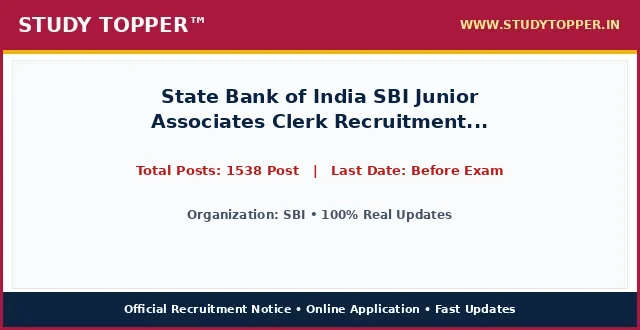
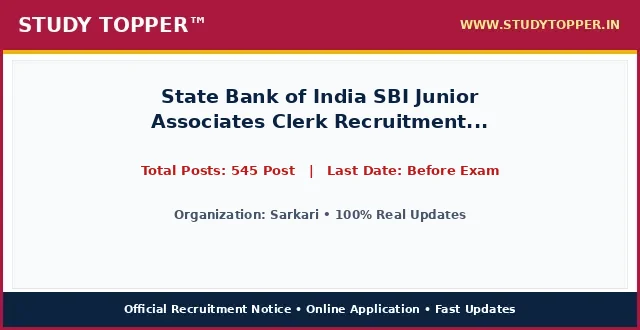
chore(lifecycle): daily auto-sort vacancies and update active dates

Changed region(s): [[0.2188, 0.4848, 0.7812, 0.5455], [0.25, 0.6364, 0.75, 0.6667]]

diff --git a/pages/sbi-clerk-backlog-2026.html b/pages/sbi-clerk-backlog-2026.html
@@ -987,12 +987,12 @@ ul.wp-block-latest-posts a:hover {
 <main class="site-main" id="main">
 <div class="gb-container gb-container-b39c368c">
 <h1 class="gb-headline gb-headline-e52a0102 gb-headline-text" style="font-size: 22px; font-weight: 700; color: #0000cd; text-align: left; margin: 8px 0 4px 0; line-height: 1.3; width: 100%; font-family: '-apple-system, BlinkMacSystemFont, 'Segoe UI', Roboto, 'Helvetica Neue', Arial, sans-serif', Times, serif, Hind, sans-serif;">State Bank of India SBI Junior Associates Clerk Recruitment 2026 : Apply Online for 1538 Backlog Post</h1>
-<div class="gb-container gb-container-659bd175"><p style="color: #cd0808; font-weight: 700; font-size: 15px; margin: 2px 0 7px 0; text-align: left; font-family: '-apple-system, BlinkMacSystemFont, 'Segoe UI', Roboto, 'Helvetica Neue', Arial, sans-serif', Times, serif, Hind, sans-serif;">Post Date: August 22, 2026 09:54 AM</p></div>
-<p class="gb-headline gb-headline-550ae316 short_Details gb-headline-text" style="width: 100%; max-width: 100%; font-size: 16.8px; line-height: 1.55; color: #000000; text-align: justify; text-justify: inter-word; margin: 8px 0 14px 0; display: block; font-family: '-apple-system, BlinkMacSystemFont, 'Segoe UI', Roboto, 'Helvetica Neue', Arial, sans-serif', Times, serif, Hind, sans-serif;"><strong style="color: #0000cd;">SBI</strong> has officially published the recruitment notice <strong style="color: #cd0808;">State Bank of India SBI Junior Associates Clerk Recruitment 2026 : Apply Online for 1538 Backlog Post</strong> under notification number 2026. Online applications are invited for 1538 Post across multiple departments and cadre positions. Interested candidates possessing the requisite educational qualifications and falling between 18 Years to 40 Years can complete their online registration before the application deadline of Before Exam. Applicants should read the eligibility criteria, category reservation rules, and exam scheme thoroughly before submitting applications.</p>
+<div class="gb-container gb-container-659bd175"><p style="color: #cd0808; font-weight: 700; font-size: 15px; margin: 2px 0 7px 0; text-align: left; font-family: '-apple-system, BlinkMacSystemFont, 'Segoe UI', Roboto, 'Helvetica Neue', Arial, sans-serif', Times, serif, Hind, sans-serif;">Post Date: August 22, 2026 11:56 AM</p></div>
+<p class="gb-headline gb-headline-550ae316 short_Details gb-headline-text" style="width: 100%; max-width: 100%; font-size: 16.8px; line-height: 1.55; color: #000000; text-align: justify; text-justify: inter-word; margin: 8px 0 14px 0; display: block; font-family: '-apple-system, BlinkMacSystemFont, 'Segoe UI', Roboto, 'Helvetica Neue', Arial, sans-serif', Times, serif, Hind, sans-serif;"><strong style="color: #0000cd;">Sarkari</strong> has officially published the recruitment notice <strong style="color: #cd0808;">State Bank of India SBI Junior Associates Clerk Recruitment 2026 : Apply Online for 1538 Backlog Post</strong> under notification number Official Advt 2026. Online applications are invited for 545 Post across multiple departments and cadre positions. Interested candidates possessing the requisite educational qualifications and falling between 18 Years to 40 Years can complete their online registration before the application deadline of Before Exam. Applicants should read the eligibility criteria, category reservation rules, and exam scheme thoroughly before submitting applications.</p>
 <div class="gb-container gb-container-9849916c"><div class="social-buttons-compact" style="display: flex; justify-content: flex-start; align-items: center; gap: 10px; margin: 10px 0 16px 0; width: 100%;"><a class="social-btn-compact wa" href="https://whatsapp.com/channel/0029Va9xyz" rel="noopener" style="background-color: #00d084; color: #ffffff; padding: 10px 18px; border-radius: 4px; text-decoration: none; font-weight: bold; font-size: 15.5px; display: inline-flex; align-items: center; justify-content: center; height: auto;" target="_blank">WhatsApp</a><a class="social-btn-compact tg" href="https://t.me/studytopperofficial" rel="noopener" style="background-color: #0088cc; color: #ffffff; padding: 10px 18px; border-radius: 4px; text-decoration: none; font-weight: bold; font-size: 15.5px; display: inline-flex; align-items: center; justify-content: center; height: auto;" target="_blank">Telegram</a></div></div>
 <div class="gb-container gb-container-f58e6ca1" style="border: 2px solid #5b032f; border-radius: 4px; overflow: hidden; margin: 15px 0 20px 0; background-color: #ffffff; width: 100%; box-sizing: border-box;">
 <h2 class="gb-headline gb-headline-2ca5a791 gb-headline-text" style="font-size: 16px; font-weight: 700; text-align: center; color: #ef0303; line-height: 1.3; padding: 6px 4px; margin: 0; background: #ffffff; font-family: '-apple-system, BlinkMacSystemFont, 'Segoe UI', Roboto, 'Helvetica Neue', Arial, sans-serif', Times, serif, Hind, sans-serif;">State Bank of India SBI Junior Associates Clerk Recruitment 2026 : Apply Online for 1538 Backlog Post &ndash; Latest Details &amp; Updates</h2>
-<h3 class="gb-headline gb-headline-7d5f86e8 gb-headline-text" style="font-size: 16px; font-weight: 600; text-align: center; color: #009703; line-height: 1.25; margin: 0; padding: 2px 4px 6px 4px; background: #ffffff; font-family: '-apple-system, BlinkMacSystemFont, 'Segoe UI', Roboto, 'Helvetica Neue', Arial, sans-serif', Times, serif, Hind, sans-serif;">SBI : Details &amp; Summary</h3>
+<h3 class="gb-headline gb-headline-7d5f86e8 gb-headline-text" style="font-size: 16px; font-weight: 600; text-align: center; color: #009703; line-height: 1.25; margin: 0; padding: 2px 4px 6px 4px; background: #ffffff; font-family: '-apple-system, BlinkMacSystemFont, 'Segoe UI', Roboto, 'Helvetica Neue', Arial, sans-serif', Times, serif, Hind, sans-serif;">Sarkari : Details &amp; Summary</h3>
 <p class="gb-headline gb-headline-79adf169 gb-headline-text" style="margin: 0 0 6px 0; font-family: '-apple-system, BlinkMacSystemFont, 'Segoe UI', Roboto, 'Helvetica Neue', Arial, sans-serif', Times, serif, Hind, sans-serif; text-align: center; font-size: 18px; font-weight: 700;"><a href="/" style="color: #0000ff; text-decoration: underline;">StudyTopper.in</a></p>
 
 <style id="st-post-boxes-responsive-css">
@@ -1025,7 +1025,7 @@ ul.wp-block-latest-posts a:hover {
     <div style="background-color: #5b032f; color: #ffffff; padding: 8px 10px; font-size: 20px; font-weight: 700; text-align: center; font-family: '-apple-system, BlinkMacSystemFont, 'Segoe UI', Roboto, 'Helvetica Neue', Arial, sans-serif', Times, serif, Hind, sans-serif;">Important Dates</div>
     <div style="padding: 12px 14px; background-color: #ffffff;">
       <ul style="padding-left: 20px; margin: 0; list-style-type: disc; text-align: left; font-size: 14pt; line-height: 1.6; font-family: '-apple-system, BlinkMacSystemFont, 'Segoe UI', Roboto, 'Helvetica Neue', Arial, sans-serif', Times, serif, Hind, sans-serif;">
-        <li><span style="font-size: 14pt;">Application Begin : <strong>07/08/2026</strong></span></li><li><span style="font-size: 14pt;">Last Date for Apply Online : <span style="color: #ff0000;"><strong>27/08/2026</strong></span></span></li><li><span style="font-size: 14pt;">Pay Exam Fee Last Date : <span style="color: #ff0000;"><strong>27/08/2026</strong></span></span></li><li><span style="font-size: 14pt;">SBI Clerk Phase I Pre Exam Date : <strong>September 2026</strong></span></li><li><span style="font-size: 14pt;">Admit Card Available : <strong>Before Exam</strong></span></li><li><span style="font-size: 14pt;">SBI Clerk Phase II Main Exam Date : <strong>October / November 2026</strong></span></li><li><span style="font-size: 14pt;">Admit Card : <strong>Before Exam</strong></span></li>
+        
       </ul>
     </div>
   </div>
@@ -1034,7 +1034,7 @@ ul.wp-block-latest-posts a:hover {
     <div style="background-color: #5b032f; color: #ffffff; padding: 8px 10px; font-size: 20px; font-weight: 700; text-align: center; font-family: '-apple-system, BlinkMacSystemFont, 'Segoe UI', Roboto, 'Helvetica Neue', Arial, sans-serif', Times, serif, Hind, sans-serif;">Application Fee</div>
     <div style="padding: 12px 14px; background-color: #ffffff;">
       <ul style="padding-left: 20px; margin: 0; list-style-type: disc; text-align: left; font-size: 14pt; line-height: 1.6; font-family: '-apple-system, BlinkMacSystemFont, 'Segoe UI', Roboto, 'Helvetica Neue', Arial, sans-serif', Times, serif, Hind, sans-serif;">
-        <li><span style="font-size: 14pt;">OBC : <strong>750/-</strong></span></li><li><span style="font-size: 14pt;">SC / ST / PH : <strong>0/-</strong></span></li><li><span style="font-size: 14pt;">The Stage : <strong>I Pre Examination will be conducted in September 2026.</strong></span></li>
+        <li><span style="font-size: 14pt;">Bihar Police BPSSC Sub Inspector SI Prohibition Result 2026 Advt. No. : <strong>03/2026</strong></span></li><li><span style="font-size: 14pt;">UP Scholarship Online Form 2026 : <strong>2027</strong></span></li>
       </ul>
       <div style="margin-top: 10px; font-size: 14pt; line-height: 1.5; color: #000000; border-top: 1px dashed #ccc; padding-top: 8px; font-family: '-apple-system, BlinkMacSystemFont, 'Segoe UI', Roboto, 'Helvetica Neue', Arial, sans-serif', Times, serif, Hind, sans-serif;">
         <strong>Mode of Payment / Access:</strong> Online via Net Banking, Debit Card, Credit Card, UPI or Free Candidate Portal.
@@ -1047,10 +1047,10 @@ ul.wp-block-latest-posts a:hover {
 <div class="st-grid-row" style="display: flex; flex-wrap: wrap; width: 100%; border-top: 2px solid #5b032f; margin: 0; padding: 0; box-sizing: border-box;">
   <!-- Left Col: Age Limits -->
   <div class="st-col-half st-col-border-right" style="box-sizing: border-box; vertical-align: top;">
-    <div style="background-color: #046132; color: #ffffff; padding: 8px 10px; font-size: 17px; font-weight: 700; text-align: center; font-family: '-apple-system, BlinkMacSystemFont, 'Segoe UI', Roboto, 'Helvetica Neue', Arial, sans-serif', Times, serif, Hind, sans-serif;">SBI : Age Limits As On 01 August 2026</div>
+    <div style="background-color: #046132; color: #ffffff; padding: 8px 10px; font-size: 17px; font-weight: 700; text-align: center; font-family: '-apple-system, BlinkMacSystemFont, 'Segoe UI', Roboto, 'Helvetica Neue', Arial, sans-serif', Times, serif, Hind, sans-serif;">Sarkari : Age Limits As On 01 August 2026</div>
     <div style="padding: 12px 14px; background-color: #ffffff;">
       <ul style="padding-left: 20px; margin: 0; list-style-type: disc; text-align: left; font-size: 14pt; line-height: 1.6; font-family: '-apple-system, BlinkMacSystemFont, 'Segoe UI', Roboto, 'Helvetica Neue', Arial, sans-serif', Times, serif, Hind, sans-serif;">
-        <li><span style="font-size: 14pt;">Minimum Age : <strong>20 Years.</strong></span></li><li><span style="font-size: 14pt;">Maximum Age : <strong>28 Years.</strong></span></li>
+        
       </ul>
     </div>
   </div>
@@ -1058,7 +1058,7 @@ ul.wp-block-latest-posts a:hover {
   <div class="st-col-half" style="box-sizing: border-box; vertical-align: top;">
     <div style="background-color: #f53c00; color: #ffffff; padding: 8px 10px; font-size: 20px; font-weight: 700; text-align: center; font-family: '-apple-system, BlinkMacSystemFont, 'Segoe UI', Roboto, 'Helvetica Neue', Arial, sans-serif', Times, serif, Hind, sans-serif;">Total Post</div>
     <div style="padding: 24px 10px; background-color: #ffffff; text-align: center;">
-      <span style="font-size: 28px; font-weight: 800; color: #000000; font-family: '-apple-system, BlinkMacSystemFont, 'Segoe UI', Roboto, 'Helvetica Neue', Arial, sans-serif', Times, serif, Hind, sans-serif;">1538 Post</span>
+      <span style="font-size: 28px; font-weight: 800; color: #000000; font-family: '-apple-system, BlinkMacSystemFont, 'Segoe UI', Roboto, 'Helvetica Neue', Arial, sans-serif', Times, serif, Hind, sans-serif;">545 Post</span>
     </div>
   </div>
 </div>
@@ -1070,19 +1070,7 @@ ul.wp-block-latest-posts a:hover {
 <div class="gb-container gb-container-ec1f6e4c">
 <h2 class="gb-headline gb-headline-c7683bda gb-headline-text" style="font-size: 24px; font-weight: 800; text-align: center; color: #ef0303; line-height: 1.35; margin: 20px 0 12px 0; padding: 6px 4px; font-family: '-apple-system, BlinkMacSystemFont, 'Segoe UI', Roboto, 'Helvetica Neue', Arial, sans-serif', Times, serif, Hind, sans-serif;">State Bank of India SBI Junior Associates Clerk Recruitment 2026 : Apply Online for 1538 Backlog Post : Key Overview &amp; Matrix</h2>
 <div class="gb-headline gb-headline-60ccea19 gb-headline-text">
-<table style="border-collapse: collapse; width: 100%; height: 150px;">
-<tbody>
-<tr style="height: 25px;">
-<td colspan="2" style="width: 50%; text-align: center; height: 25px;"><span style="background-color: #000080; color: #ffffff; font-size: 14pt;"><strong> SBI : Category Wise Vacancy Details </strong></span></td>
-</tr>
-<tr style="height: 25px;">
-<td style="width: 50%; height: 25px; text-align: center;"><span style="font-size: 14pt;"><strong>Category / Particulars</strong></span></td>
-<td style="width: 50%; height: 25px; text-align: center;"><span style="font-size: 14pt;"><strong>Count / Status</strong></span></td>
-</tr>
 
-</tbody>
-</table>
-<p>&nbsp;</p>
 <table style="border-collapse: collapse; width: 100%;">
 <tbody>
 <tr>
@@ -1090,9 +1078,14 @@ ul.wp-block-latest-posts a:hover {
 <th style="background-color: #f53c00; color: #ffffff; padding: 6px 10px; text-align: center; border: 1px solid #d35400; font-size: 15px; font-weight: 700; font-family: '-apple-system, BlinkMacSystemFont, 'Segoe UI', Roboto, 'Helvetica Neue', Arial, sans-serif', Times, serif, Hind, sans-serif;">Total Posts</th>
 <th style="background-color: #f53c00; color: #ffffff; padding: 6px 10px; text-align: center; border: 1px solid #d35400; font-size: 15px; font-weight: 700; font-family: '-apple-system, BlinkMacSystemFont, 'Segoe UI', Roboto, 'Helvetica Neue', Arial, sans-serif', Times, serif, Hind, sans-serif;">Eligibility Criteria</th>
 </tr>
-
+<tr>
+<td style="padding: 8px; border: 1px solid #ddd; font-weight: bold;">Sarkari Recruitment</td>
+<td style="padding: 8px; border: 1px solid #ddd; text-align: center; font-weight: bold;">545 Post</td>
+<td style="padding: 8px; border: 1px solid #ddd;">Please refer to the official notification linked below for detailed educational qualifications.</td>
+</tr>
 </tbody>
 </table>
+<p>&nbsp;</p>
 <p>&nbsp;</p>
 
 
@@ -1100,10 +1093,10 @@ ul.wp-block-latest-posts a:hover {
 <table style="border-collapse: collapse; width: 100%;">
 <tbody>
 <tr>
-<td style="width: 100%; text-align: center;"><span style="background-color: #000080; color: #ffffff; font-size: 14pt; font-weight: bold; display: block; padding: 6px;"> How to Fill SBI Online Application Form </span></td>
+<td style="width: 100%; text-align: center;"><span style="background-color: #000080; color: #ffffff; font-size: 14pt; font-weight: bold; display: block; padding: 6px;"> How to Fill Sarkari Online Application Form </span></td>
 </tr>
 <tr>
-<td style="width: 100%;"><ol style="margin:0; padding-left:18px; text-align: left !important; list-style-position: outside !important"><li style="margin-bottom:6px; text-align: left !important;">Resize candidate photograph and signature accurately using the <a href="https://indtool.in" rel="noopener" target="_blank"><strong>StudyTopper Tools</strong></a> image resizer at indtool.in.</li></ol></td>
+<td style="width: 100%;"><ol style="margin:0; padding-left:18px; text-align: left !important; list-style-position: outside !important"><li style="margin-bottom:6px; text-align: left !important;">Read the official recruitment notification carefully before applying.</li><li style="margin-bottom:6px; text-align: left !important;">Keep all basic documents ready: ID Proof, Address Details, Basic Details.</li><li style="margin-bottom:6px; text-align: left !important;">Ready your scanned documents like Photo, Signature, ID Proof, etc.</li><li style="margin-bottom:6px; text-align: left !important;">Click on the 'Apply Online' link given in the Important Links section below.</li><li style="margin-bottom:6px; text-align: left !important;">Fill out all the columns in the application form accurately.</li><li style="margin-bottom:6px; text-align: left !important;">Pay the required application fee if applicable.</li><li style="margin-bottom:6px; text-align: left !important;">Take a printout of the final submitted application form.</li><li style="margin-bottom:6px; text-align: left !important;">Resize candidate photograph and signature accurately using the <a href="https://indtool.in" rel="noopener" target="_blank"><strong>StudyTopper Tools</strong></a> image resizer at indtool.in.</li></ol></td>
 </tr>
 </tbody>
 </table>
@@ -1111,7 +1104,7 @@ ul.wp-block-latest-posts a:hover {
 <table style="border-collapse: collapse; width: 100%;">
 <tbody>
 <tr>
-<td style="width: 100%; text-align: center;"><span style="background-color: #000080; color: #ffffff; font-size: 14pt;"><strong><span style="color: #ffffff;"> SBI Recruitment 2026 : Mode Of Selection </span></strong></span></td>
+<td style="width: 100%; text-align: center;"><span style="background-color: #000080; color: #ffffff; font-size: 14pt;"><strong><span style="color: #ffffff;"> Sarkari Recruitment 2026 : Mode Of Selection </span></strong></span></td>
 </tr>
 <tr>
 <td style="width: 100%;">
@@ -1154,7 +1147,7 @@ ul.wp-block-latest-posts a:hover {
 <span style="font-size: 19px; font-weight: 800; color: #000000; font-family: '-apple-system, BlinkMacSystemFont, 'Segoe UI', Roboto, 'Helvetica Neue', Arial, sans-serif', Times, serif, Hind, sans-serif;">Apply Online Link</span>
 </td>
 <td style="width: 50%; padding: 14px 16px; text-align: center;">
-<span style="font-size: 20px; font-weight: 800; font-family: '-apple-system, BlinkMacSystemFont, 'Segoe UI', Roboto, 'Helvetica Neue', Arial, sans-serif', Times, serif, Hind, sans-serif;"><a href="https://sbi.bank.in/" aria-label="Click Here for Apply Online Link - State Bank of India SBI Junior Associates Clerk Recruitment 2026 : Apply Online for 1538 Backlog Post" rel="noopener noreferrer" style="color: #0000ef; font-weight: 800; text-decoration: none;" target="_blank">Click Here</a></span>
+<span style="font-size: 20px; font-weight: 800; font-family: '-apple-system, BlinkMacSystemFont, 'Segoe UI', Roboto, 'Helvetica Neue', Arial, sans-serif', Times, serif, Hind, sans-serif;"><a href="https://www.sarkariresult.com/2026/mpesb-group2-subgroup-4-aug26/" aria-label="Click Here for Apply Online Link - State Bank of India SBI Junior Associates Clerk Recruitment 2026 : Apply Online for 1538 Backlog Post" rel="noopener noreferrer" style="color: #0000ef; font-weight: 800; text-decoration: none;" target="_blank">Click Here</a></span>
 </td>
 </tr>
 <tr style="border-bottom: 1px solid #000000; background-color: #fff37a;">
@@ -1162,7 +1155,7 @@ ul.wp-block-latest-posts a:hover {
 <span style="font-size: 19px; font-weight: 800; color: #000000; font-family: '-apple-system, BlinkMacSystemFont, 'Segoe UI', Roboto, 'Helvetica Neue', Arial, sans-serif', Times, serif, Hind, sans-serif;">Check Official Notification</span>
 </td>
 <td style="width: 50%; padding: 14px 16px; text-align: center;">
-<span style="font-size: 20px; font-weight: 800; font-family: '-apple-system, BlinkMacSystemFont, 'Segoe UI', Roboto, 'Helvetica Neue', Arial, sans-serif', Times, serif, Hind, sans-serif;"><a href="https://sbi.bank.in/" aria-label="Click Here for Check Official Notification - State Bank of India SBI Junior Associates Clerk Recruitment 2026 : Apply Online for 1538 Backlog Post" rel="noopener noreferrer" style="color: #0000ef; font-weight: 800; text-decoration: none;" target="_blank">Click Here</a></span>
+<span style="font-size: 20px; font-weight: 800; font-family: '-apple-system, BlinkMacSystemFont, 'Segoe UI', Roboto, 'Helvetica Neue', Arial, sans-serif', Times, serif, Hind, sans-serif;"><a href="" aria-label="Click Here for Check Official Notification - State Bank of India SBI Junior Associates Clerk Recruitment 2026 : Apply Online for 1538 Backlog Post" rel="noopener noreferrer" style="color: #0000ef; font-weight: 800; text-decoration: none;" target="_blank">Click Here</a></span>
 </td>
 </tr>
 <tr style="border-bottom: 1px solid #000000; background-color: #fff37a;">
@@ -1183,10 +1176,10 @@ ul.wp-block-latest-posts a:hover {
 </tr>
 <tr style=" background-color: #fff37a;">
 <td style="width: 50%; padding: 14px 16px; border-right: 1px solid #000000; text-align: center;">
-<span style="font-size: 19px; font-weight: 800; color: #000000; font-family: '-apple-system, BlinkMacSystemFont, 'Segoe UI', Roboto, 'Helvetica Neue', Arial, sans-serif', Times, serif, Hind, sans-serif;">SBI Website</span>
+<span style="font-size: 19px; font-weight: 800; color: #000000; font-family: '-apple-system, BlinkMacSystemFont, 'Segoe UI', Roboto, 'Helvetica Neue', Arial, sans-serif', Times, serif, Hind, sans-serif;">Sarkari Website</span>
 </td>
 <td style="width: 50%; padding: 14px 16px; text-align: center;">
-<span style="font-size: 20px; font-weight: 800; font-family: '-apple-system, BlinkMacSystemFont, 'Segoe UI', Roboto, 'Helvetica Neue', Arial, sans-serif', Times, serif, Hind, sans-serif;"><a href="https://sbi.bank.in/" aria-label="Click Here for SBI Website - State Bank of India SBI Junior Associates Clerk Recruitment 2026 : Apply Online for 1538 Backlog Post" rel="noopener noreferrer" style="color: #0000ef; font-weight: 800; text-decoration: none;" target="_blank">Click Here</a></span>
+<span style="font-size: 20px; font-weight: 800; font-family: '-apple-system, BlinkMacSystemFont, 'Segoe UI', Roboto, 'Helvetica Neue', Arial, sans-serif', Times, serif, Hind, sans-serif;"><a href="" aria-label="Click Here for Sarkari Website - State Bank of India SBI Junior Associates Clerk Recruitment 2026 : Apply Online for 1538 Backlog Post" rel="noopener noreferrer" style="color: #0000ef; font-weight: 800; text-decoration: none;" target="_blank">Click Here</a></span>
 </td>
 </tr>
 </tbody>
@@ -1202,7 +1195,7 @@ ul.wp-block-latest-posts a:hover {
 <p style="margin: 0 0 16px 0; color: #333333; line-height: 1.6;">Ans. The last date for online submission of application is Before Exam.</p><p style="margin: 0 0 4px 0;"><strong style="color: #000080;">Q2. What is the age limit for State Bank of India SBI Junior Associates Clerk Recruitment 2026 : Apply Online for 1538 Backlog Post?</strong></p>
 <p style="margin: 0 0 16px 0; color: #333333; line-height: 1.6;">Ans. Candidate age should generally be between 18 Years and 40 Years as on 01 August 2026. Age relaxation is applicable per rules.</p><p style="margin: 0 0 4px 0;"><strong style="color: #000080;">Q3. What is the application fee for State Bank of India SBI Junior Associates Clerk Recruitment 2026 : Apply Online for 1538 Backlog Post?</strong></p>
 <p style="margin: 0 0 16px 0; color: #333333; line-height: 1.6;">Ans. Application fee varies by category (e.g., General/OBC: Rs. 100/-, SC/ST/PwD: Exempted).</p><p style="margin: 0 0 4px 0;"><strong style="color: #000080;">Q4. How many total posts are available in State Bank of India SBI Junior Associates Clerk Recruitment 2026 : Apply Online for 1538 Backlog Post?</strong></p>
-<p style="margin: 0 0 16px 0; color: #333333; line-height: 1.6;">Ans. A total of 1538 Post have been officially announced for this recruitment drive.</p><p style="margin: 0 0 4px 0;"><strong style="color: #000080;">Q5. How can I apply online for State Bank of India SBI Junior Associates Clerk Recruitment 2026 : Apply Online for 1538 Backlog Post?</strong></p>
+<p style="margin: 0 0 16px 0; color: #333333; line-height: 1.6;">Ans. A total of 545 Post have been officially announced for this recruitment drive.</p><p style="margin: 0 0 4px 0;"><strong style="color: #000080;">Q5. How can I apply online for State Bank of India SBI Junior Associates Clerk Recruitment 2026 : Apply Online for 1538 Backlog Post?</strong></p>
 <p style="margin: 0 0 0 0; color: #333333; line-height: 1.6;">Ans. Eligible candidates can click the 'Apply Online' link in the Important Links table, register, fill details, resize photo/signature via indtool.in, and submit before Before Exam.</p>
   </div>
 </div>
